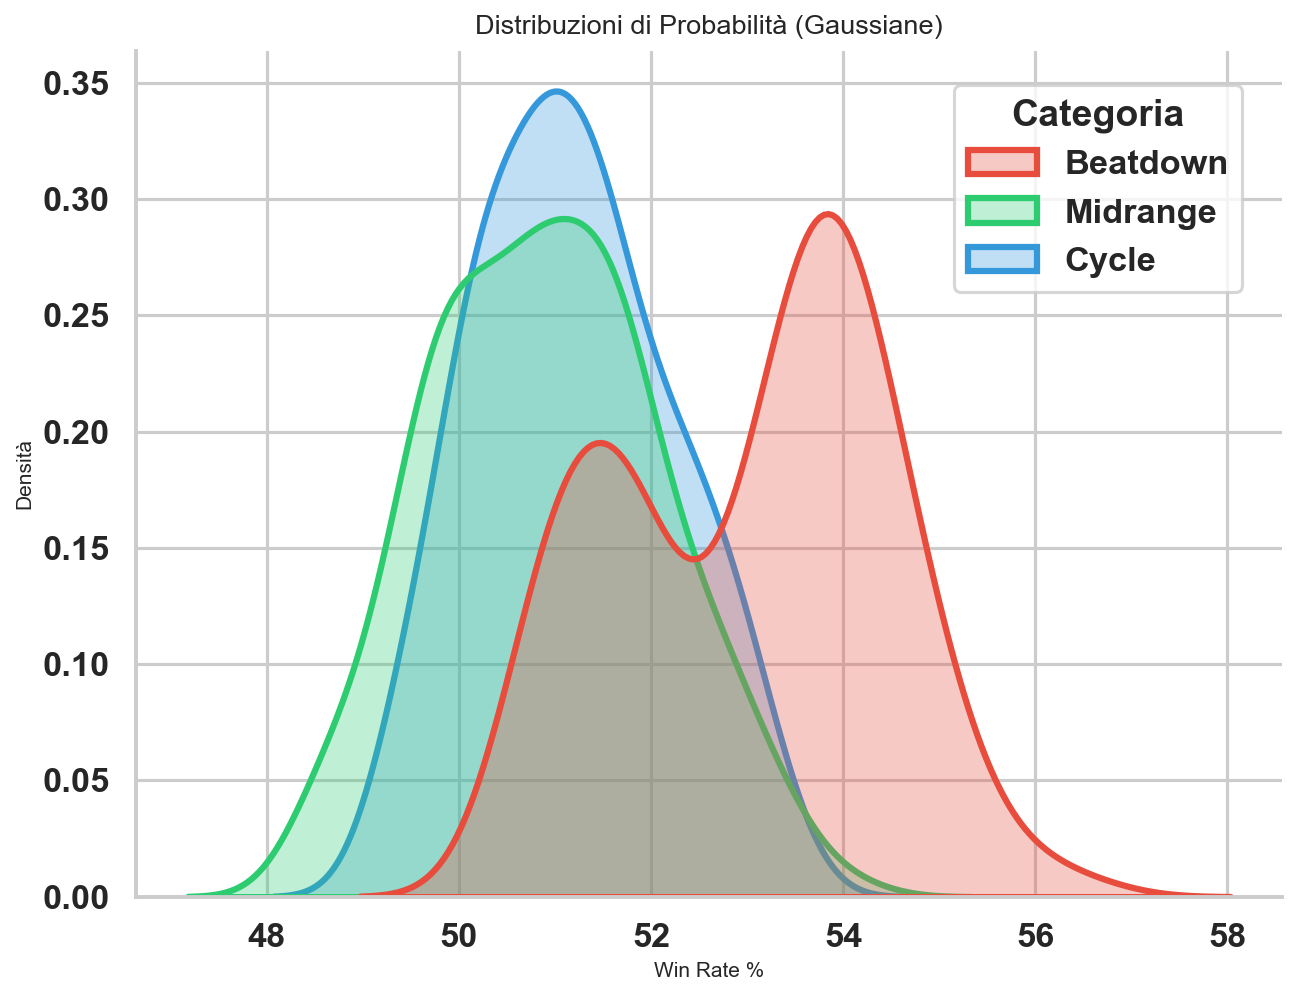
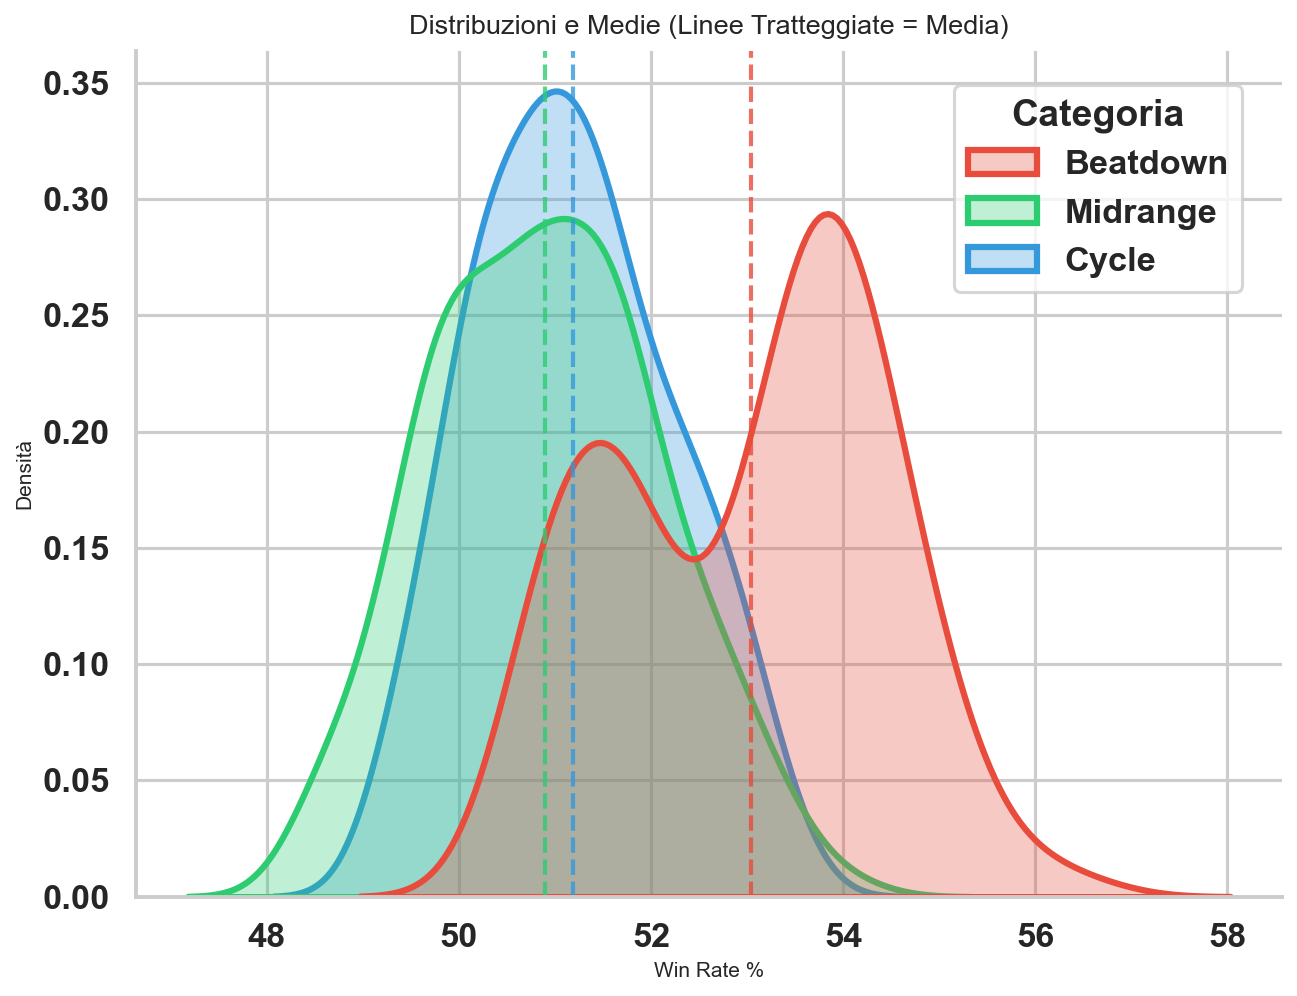
Enhance probability distribution graphs with mean lines and update titles for clarity

Changed region(s): [[0.3084, 0.0, 0.771, 0.0622]]

diff --git a/main.py b/main.py
@@ -230,7 +230,17 @@ def mostra_grafici(df):
     sns.kdeplot(data=df, x='Win_Rate', hue='Categoria', palette=custom_palette, 
                 fill=True, alpha=0.3, linewidth=3, common_norm=False, ax=ax2)
     
-    ax2.set_title('2. Distribuzioni di Probabilità (Gaussiane)', fontsize=12, pad=8)
+    # Calcolo delle medie per tracciare le linee verticali tratteggiate
+    media_cycle = df[df['Categoria'] == 'Cycle']['Win_Rate'].mean()
+    media_beatdown = df[df['Categoria'] == 'Beatdown']['Win_Rate'].mean()
+    media_midrange = df[df['Categoria'] == 'Midrange']['Win_Rate'].mean()
+    
+    # Tracciamo le linee verticali tratteggiate per la MEDIA
+    ax2.axvline(media_cycle, color='#3498db', linestyle='--', linewidth=2, alpha=0.8)
+    ax2.axvline(media_beatdown, color='#e74c3c', linestyle='--', linewidth=2, alpha=0.8)
+    ax2.axvline(media_midrange, color='#2ecc71', linestyle='--', linewidth=2, alpha=0.8)
+    
+    ax2.set_title('2. Distribuzioni e Medie (Linee Tratteggiate = Media)', fontsize=12, pad=8)
     ax2.set_xlabel('Win Rate %', fontsize=10)
     ax2.set_ylabel('Densità', fontsize=10)
     legend = ax2.get_legend()
@@ -240,9 +250,11 @@ def mostra_grafici(df):
 
     ax3 = axs[1, 0]
     sns.boxplot(x='Categoria', y='Win_Rate', data=df, hue='Categoria', palette=custom_palette, 
-                width=0.5, linewidth=2, fliersize=5, ax=ax3, legend=False)
+                width=0.5, linewidth=2, fliersize=5, ax=ax3, legend=False,
+                showmeans=True,
+                meanprops={"marker":"D", "markerfacecolor":"white", "markeredgecolor":"black", "markersize":8})
     
-    ax3.set_title('3. Analisi dei Quartili e Valori Anomali (Box Plot)', fontsize=12, pad=8)
+    ax3.set_title('3. Analisi dei Quartili (Linea=Mediana, Rombo=Media)', fontsize=12, pad=8)
     ax3.set_ylabel('Win Rate %', fontsize=10)
     ax3.set_xlabel('')
 
@@ -284,7 +296,18 @@ def mostra_grafici(df):
     fig2, ax2 = plt.subplots(figsize=(9, 7))
     sns.kdeplot(data=df, x='Win_Rate', hue='Categoria', palette=custom_palette,
                 fill=True, alpha=0.3, linewidth=3, common_norm=False, ax=ax2)
-    ax2.set_title('Distribuzioni di Probabilità (Gaussiane)', fontsize=13, pad=8)
+    
+    # Calcolo delle medie per tracciare le linee verticali tratteggiate
+    media_cycle = df[df['Categoria'] == 'Cycle']['Win_Rate'].mean()
+    media_beatdown = df[df['Categoria'] == 'Beatdown']['Win_Rate'].mean()
+    media_midrange = df[df['Categoria'] == 'Midrange']['Win_Rate'].mean()
+    
+    # Tracciamo le linee verticali tratteggiate per la MEDIA
+    ax2.axvline(media_cycle, color='#3498db', linestyle='--', linewidth=2, alpha=0.8)
+    ax2.axvline(media_beatdown, color='#e74c3c', linestyle='--', linewidth=2, alpha=0.8)
+    ax2.axvline(media_midrange, color='#2ecc71', linestyle='--', linewidth=2, alpha=0.8)
+    
+    ax2.set_title('Distribuzioni e Medie (Linee Tratteggiate = Media)', fontsize=13, pad=8)
     ax2.set_xlabel('Win Rate %', fontsize=10)
     ax2.set_ylabel('Densità', fontsize=10)
     legend = ax2.get_legend()
@@ -298,8 +321,10 @@ def mostra_grafici(df):
 
     fig3, ax3 = plt.subplots(figsize=(9, 7))
     sns.boxplot(x='Categoria', y='Win_Rate', data=df, hue='Categoria', palette=custom_palette,
-                width=0.5, linewidth=2, fliersize=5, ax=ax3, legend=False)
-    ax3.set_title('Analisi Quartili e Valori Anomali (Box Plot)', fontsize=13, pad=8)
+                width=0.5, linewidth=2, fliersize=5, ax=ax3, legend=False,
+                showmeans=True,
+                meanprops={"marker":"D", "markerfacecolor":"white", "markeredgecolor":"black", "markersize":8})
+    ax3.set_title('Analisi Quartili (Linea=Mediana, Rombo=Media)', fontsize=13, pad=8)
     ax3.set_ylabel('Win Rate %', fontsize=10)
     ax3.set_xlabel('')
     sns.despine()
